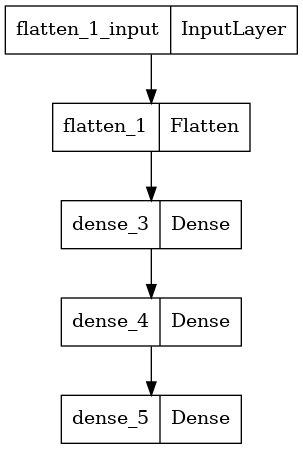
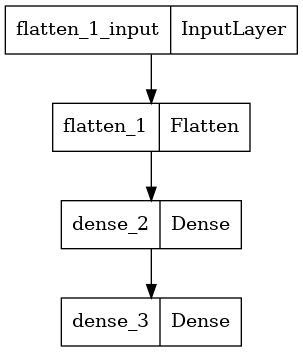
Wrote CNNs

Changed region(s): [[0.1485, 0.1875, 0.8317, 1.0], [0.0, 0.0, 1.0, 0.1562]]

diff --git a/chomper/chomp_conv_deep.py b/chomper/chomp_conv_deep.py
@@ -12,13 +12,20 @@ import log
 
 
 @cached
-def get_ultra_deep_trained_model(norm_xtrain: Union[np.ndarray, tf.Tensor],
+def get_conv_deep_trained_model(norm_xtrain: Union[np.ndarray, tf.Tensor],
         ytrain: Union[np.ndarray, tf.Tensor]) -> keras.Model:
     model = keras.Sequential([
-        keras.layers.Flatten(input_shape=(norm_xtrain.shape[1],
+        keras.layers.Reshape((norm_xtrain.shape[1], norm_xtrain.shape[2], 1),
+                             input_shape=(norm_xtrain.shape[1],
                                           norm_xtrain.shape[2])),
-        keras.layers.Dense(50, activation='relu'),
-        keras.layers.Dense(100, activation='relu'),
+        keras.layers.Conv2D(filters=32, kernel_size=9, padding='same',
+                            activation='relu',
+                            input_shape=(norm_xtrain.shape[1],
+                                         norm_xtrain.shape[2], 1)),
+        keras.layers.MaxPooling2D(pool_size=9),
+        keras.layers.Conv2D(64, 3),
+        keras.layers.Flatten(),
+        keras.layers.Dense(64**2, activation='relu'),
         keras.layers.Dense(10, activation='sigmoid')
     ])
 
@@ -30,7 +37,7 @@ def get_ultra_deep_trained_model(norm_xtrain: Union[np.ndarray, tf.Tensor],
 
     history = model.fit(norm_xtrain, ytrain, epochs=5)
 
-    keras.utils.plot_model(model, to_file=f'output/chomp_ultra_deep.model.png')
+    keras.utils.plot_model(model, to_file=f'output/chomp_conv_deep.model.png')
 
     return model, history
 
@@ -50,7 +57,7 @@ if __name__ == '__main__':
     norm_xtrain = keras.utils.normalize(xtrain)
     norm_xtest = keras.utils.normalize(xtest)
 
-    model, history = get_ultra_deep_trained_model(norm_xtrain, ytrain)
+    model, history = get_conv_deep_trained_model(norm_xtrain, ytrain)
 
     # Test
     log.info('Testing with the MNIST test data:')
@@ -69,7 +76,8 @@ if __name__ == '__main__':
     norm_xtrain_dft = keras.utils.normalize(xtrain_dft)
     norm_xtest_dft = keras.utils.normalize(xtest_dft)
 
-    dft_model, dft_history = get_ultra_deep_trained_model(norm_xtrain_dft, ytrain)
+    dft_model, dft_history = get_conv_deep_trained_model(norm_xtrain_dft,
+                                                           ytrain)
 
     log.info('Testing DFT with the MNIST test data:')
     loss, accuracy = dft_model.evaluate(norm_xtest_dft, ytest)

diff --git a/chomper/chomp_conv_simple.py b/chomper/chomp_conv_simple.py
@@ -12,13 +12,18 @@ import log
 
 
 @cached
-def get_ultra_deep_trained_model(norm_xtrain: Union[np.ndarray, tf.Tensor],
+def get_conv_simple_trained_model(norm_xtrain: Union[np.ndarray, tf.Tensor],
         ytrain: Union[np.ndarray, tf.Tensor]) -> keras.Model:
     model = keras.Sequential([
-        keras.layers.Flatten(input_shape=(norm_xtrain.shape[1],
+        keras.layers.Reshape((norm_xtrain.shape[1], norm_xtrain.shape[2], 1),
+                             input_shape=(norm_xtrain.shape[1],
                                           norm_xtrain.shape[2])),
-        keras.layers.Dense(50, activation='relu'),
-        keras.layers.Dense(100, activation='relu'),
+        keras.layers.Conv2D(filters=32, kernel_size=3, padding='same',
+                            activation='relu',
+                            input_shape=(norm_xtrain.shape[1],
+                                         norm_xtrain.shape[2], 1)),
+        keras.layers.MaxPooling2D(pool_size=3),
+        keras.layers.Flatten(),
         keras.layers.Dense(10, activation='sigmoid')
     ])
 
@@ -30,7 +35,7 @@ def get_ultra_deep_trained_model(norm_xtrain: Union[np.ndarray, tf.Tensor],
 
     history = model.fit(norm_xtrain, ytrain, epochs=5)
 
-    keras.utils.plot_model(model, to_file=f'output/chomp_ultra_deep.model.png')
+    keras.utils.plot_model(model, to_file=f'output/chomp_conv_simple.model.png')
 
     return model, history
 
@@ -50,7 +55,7 @@ if __name__ == '__main__':
     norm_xtrain = keras.utils.normalize(xtrain)
     norm_xtest = keras.utils.normalize(xtest)
 
-    model, history = get_ultra_deep_trained_model(norm_xtrain, ytrain)
+    model, history = get_conv_simple_trained_model(norm_xtrain, ytrain)
 
     # Test
     log.info('Testing with the MNIST test data:')
@@ -69,7 +74,8 @@ if __name__ == '__main__':
     norm_xtrain_dft = keras.utils.normalize(xtrain_dft)
     norm_xtest_dft = keras.utils.normalize(xtest_dft)
 
-    dft_model, dft_history = get_ultra_deep_trained_model(norm_xtrain_dft, ytrain)
+    dft_model, dft_history = get_conv_simple_trained_model(norm_xtrain_dft,
+                                                           ytrain)
 
     log.info('Testing DFT with the MNIST test data:')
     loss, accuracy = dft_model.evaluate(norm_xtest_dft, ytest)

diff --git a/chomper/image.py b/chomper/image.py
@@ -1,0 +1,36 @@
+import numpy as np
+from typing import Tuple
+from PIL import Image
+
+def bounding_box(img: np.ndarray) -> Tuple[int, int, int, int]:
+    rows = np.any(img, axis=1)
+    cols = np.any(img, axis=0)
+    rmin, rmax = np.where(rows)[0][[0, -1]]
+    cmin, cmax = np.where(cols)[0][[0, -1]]
+
+    return rmin, rmax, cmin, cmax
+
+
+def autocrop(img: np.ndarray) -> np.ndarray:
+    y0, y1, x0, x1 = bounding_box(img)
+    return img[y0:y1, x0:x1]
+
+
+def resize_to_fit(img: np.ndarray, dims: Tuple[int, int]) -> np.ndarray:
+    pilim = Image.fromarray(img)
+    scaling_factor = min(dims[0] / pilim.width, dims[1] / pilim.height)
+    pilim = pilim.resize(
+        (round(pilim.width * scaling_factor),
+         round(pilim.height * scaling_factor)), Image.ANTIALIAS)
+    out = np.asarray(pilim)
+
+    ypad = dims[1] - out.shape[0]
+    xpad = dims[0] - out.shape[1]
+
+    result = np.pad(out, (
+        (ypad // 2, ypad // 2 + (1 if ypad %2 != 0 else 0)),
+        (xpad // 2, xpad // 2 + (1 if xpad % 2 != 0 else 0))
+    ), 'constant', constant_values=0)
+
+    assert result.shape == dims  # I don't trust myself enough.
+    return result

diff --git a/tools/compare_dft_dct.py b/tools/compare_dft_dct.py
@@ -1,0 +1,31 @@
+#!/usr/bin/env python3
+# -*- coding: utf-8 -*-
+
+from PIL import Image, ImageOps
+import os
+import numpy as np
+from scipy.fft import fft2
+from scipy.fftpack import dct
+import sys
+
+if __name__ == '__main__':
+    if len(sys.argv) != 3:
+        print('compare_dft_dct.py input.img output/dir')
+        exit(1)
+
+    img = ImageOps.invert(Image.open(sys.argv[1]).convert('L'))
+    img.save(os.path.join(sys.argv[2], 'input.png'))
+    inputarr = np.asarray(img)
+    print(f'Input shape: {inputarr.shape}')
+    dftarr = fft2(inputarr)
+    print(f'DFT shape: {dftarr.shape}')
+    Image.fromarray(np.abs(dftarr)).convert('L').save(
+        os.path.join(sys.argv[2], 'dftmagn.png'))
+    Image.fromarray(np.angle(dftarr)).convert('L').save(
+        os.path.join(sys.argv[2], 'dftangle.png'))
+    dctarr = dct(dct(inputarr, axis=0), axis=1)
+    print(f'DCT shape: {dctarr.shape}')
+    Image.fromarray(np.abs(dctarr)).convert('L').save(
+        os.path.join(sys.argv[2], 'dctmagn.png'))
+    Image.fromarray(np.angle(dctarr)).convert('L').save(
+        os.path.join(sys.argv[2], 'dctangle.png'))

diff --git a/chomper/evaluation.py b/chomper/evaluation.py
@@ -3,6 +3,7 @@ import os
 import numpy as np
 from PIL import Image, ImageOps
 import log
+import image
 
 def evaluate_model(model, datapath):
     to_predict = []
@@ -15,6 +16,7 @@ def evaluate_model(model, datapath):
         expected.append(exp)
 
         img = np.array(ImageOps.invert(Image.open(path).convert('L')))
+        cropped = image.resize_to_fit(image.autocrop(img), (28, 28))
         to_predict.append(img)
 
     log.info(f'Shape out custom test data: {np.array(to_predict).shape}')
@@ -30,4 +32,4 @@ def evaluate_model(model, datapath):
 
     count = len(to_predict)
     log.info(f'Total Accuracy: {round(accuracy_accum / count, 2)}. ' +
-             f'Avg Confidence: {round(confidence_accum / count)}\n')
+             f'Avg Confidence: {round(confidence_accum / count, 2)}\n')

diff --git a/chomper/chomp_deep.py b/chomper/chomp_deep.py
@@ -67,8 +67,6 @@ if __name__ == '__main__':
     dims = (tf.shape(xtrain_dft)[0], tf.shape(xtrain)[1]**2)
     norm_xtrain_dft = keras.utils.normalize(xtrain_dft)
     norm_xtest_dft = keras.utils.normalize(xtest_dft)
-    log.info(f'The shape of the flattened DFT is {xtrain_dft.shape}, ' +
-             f'testing: {xtest_dft.shape}')
 
     dft_model, dft_history = get_deep_trained_model(norm_xtrain_dft, ytrain)
 

diff --git a/chomper/chomp_simple.py b/chomper/chomp_simple.py
@@ -67,8 +67,6 @@ if __name__ == '__main__':
     dims = (tf.shape(xtrain_dft)[0], tf.shape(xtrain)[1]**2)
     norm_xtrain_dft = keras.utils.normalize(xtrain_dft)
     norm_xtest_dft = keras.utils.normalize(xtest_dft)
-    log.info(f'The shape of the flattened DFT is {xtrain_dft.shape}, ' +
-             f'testing: {xtest_dft.shape}')
 
     dft_model, dft_history = get_trained_model(norm_xtrain_dft, ytrain)
 

diff --git a/chomper/__init__.py b/chomper/__init__.py
@@ -4,3 +4,4 @@ from . import cacher
 from . import exit_codes
 from . import config
 from . import evaluation
+from . imoprt image
